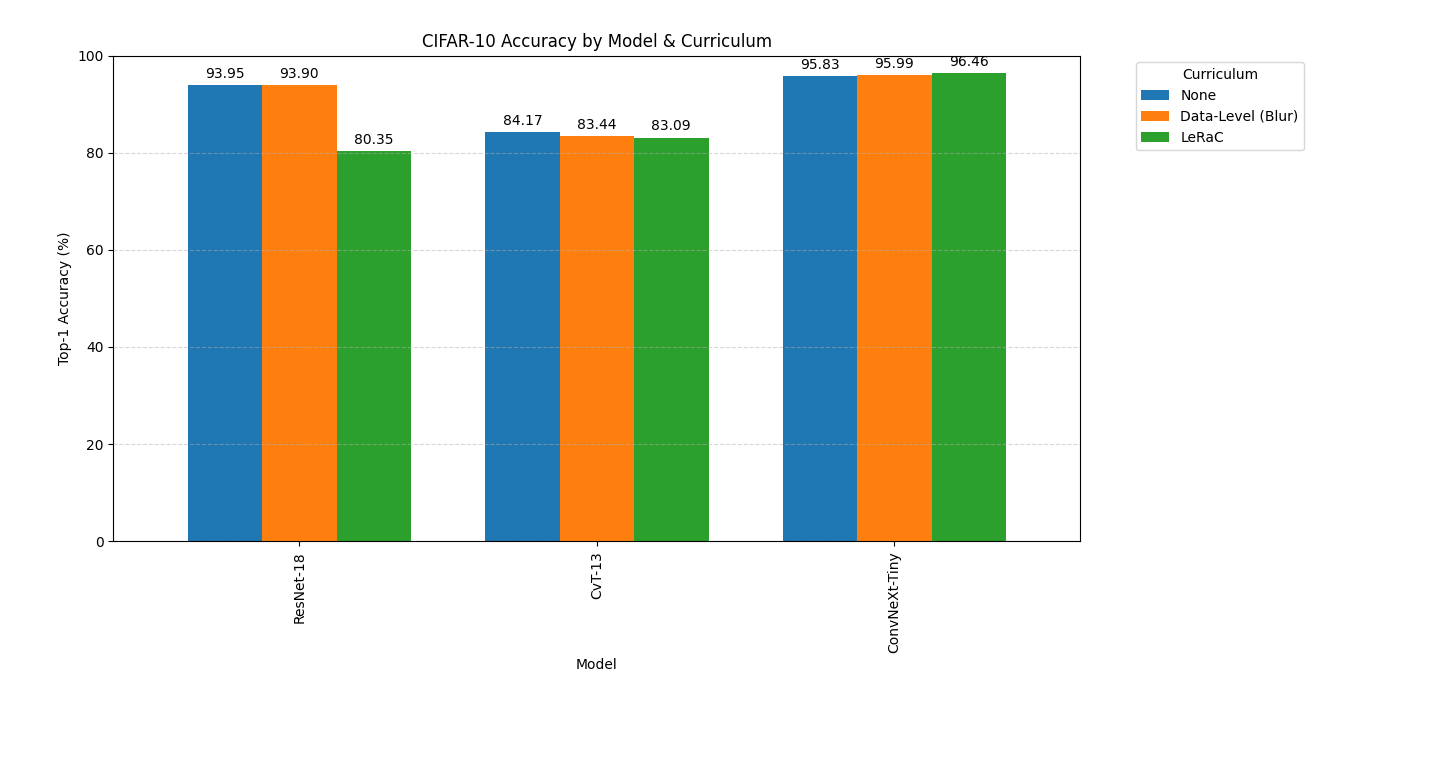
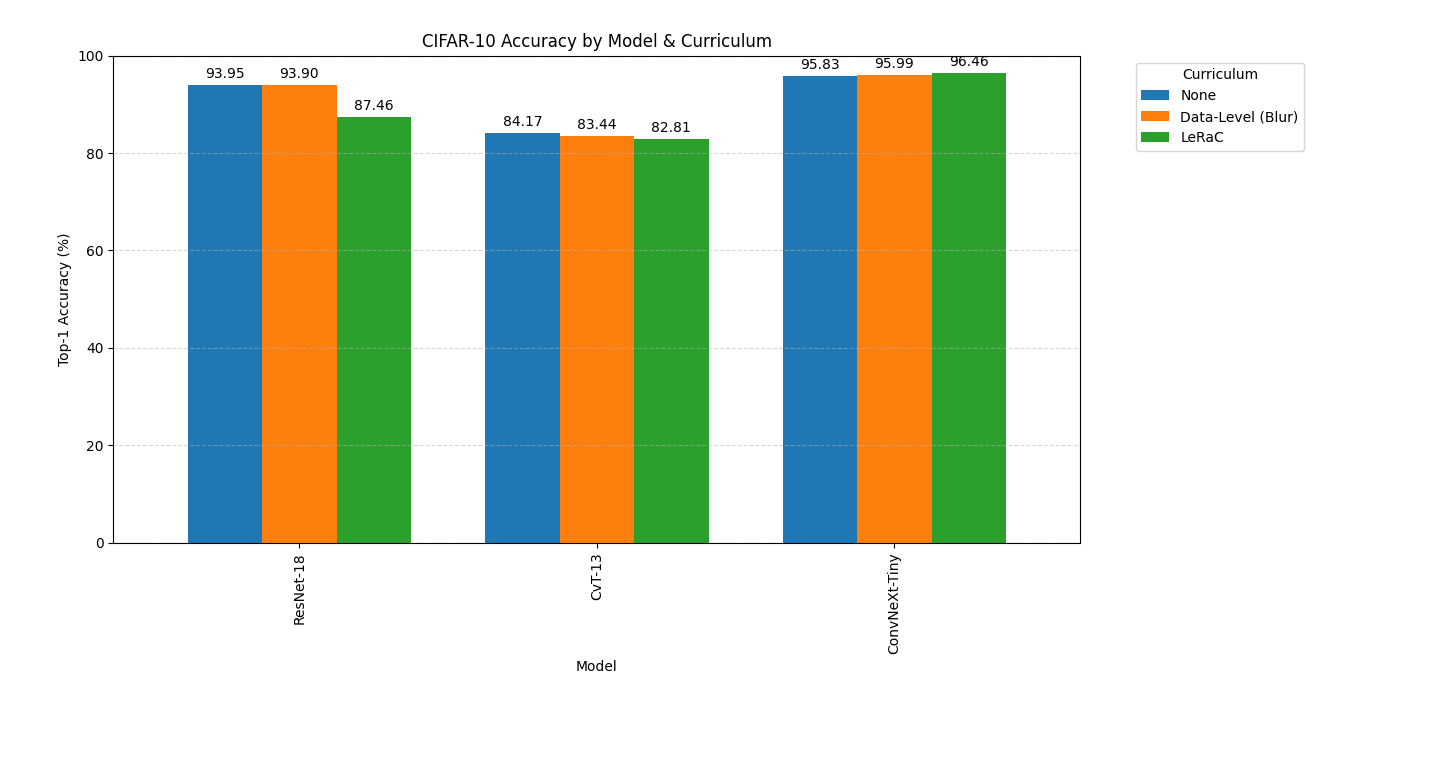
add plots + code

diff --git a/utils/accuracy_plots.py b/utils/accuracy_plots.py
@@ -3,23 +3,29 @@ import matplotlib.pyplot as plt
 
 rows = [
     ("ResNet-18", "None", "CIFAR-10", 93.95),
-    ("ResNet-18", "LeRaC", "CIFAR-10", 80.35),
+    ("ResNet-18", "LeRaC", "CIFAR-10", 87.46),
     ("ResNet-18", "Data-Level (Blur)", "CIFAR-10", 93.90),
+    ("ResNet-18", "Hybrid", "CIFAR-10", 93.43),    
     ("ResNet-18", "None", "ImageNet-100", 79.80),
-    ("ResNet-18", "LeRaC", "ImageNet-100", 74.10),
+    ("ResNet-18", "LeRaC", "ImageNet-100", 80.64),
     ("ResNet-18", "Data-Level (Blur)", "ImageNet-100", 79.30),
+    ("ResNet-18", "Hybrid", "ImageNet-100", 81.08),
     ("CvT-13", "None", "CIFAR-10", 84.17),
-    ("CvT-13", "LeRaC", "CIFAR-10", 83.09),
+    ("CvT-13", "LeRaC", "CIFAR-10", 82.81),
     ("CvT-13", "Data-Level (Blur)", "CIFAR-10", 83.44),
+    ("CvT-13", "Hybrid", "CIFAR-10", 83.07),
     ("CvT-13", "None", "ImageNet-100", 81.12),
-    ("CvT-13", "LeRaC", "ImageNet-100", 77.04),
+    ("CvT-13", "LeRaC", "ImageNet-100", 76.68),
     ("CvT-13", "Data-Level (Blur)", "ImageNet-100", 82.84),
+    ("CvT-13", "Hybrid", "ImageNet-100", 80.56),
     ("ConvNeXt-Tiny", "None", "CIFAR-10", 95.83),
     ("ConvNeXt-Tiny", "LeRaC", "CIFAR-10", 96.46),
     ("ConvNeXt-Tiny", "Data-Level (Blur)", "CIFAR-10", 95.99),
+    ("ConvNeXt-Tiny", "Hybrid", "CIFAR-10", 94.44),    
     ("ConvNeXt-Tiny", "None", "ImageNet-100", 84.53),
     ("ConvNeXt-Tiny", "LeRaC", "ImageNet-100", 83.65),
     ("ConvNeXt-Tiny", "Data-Level (Blur)", "ImageNet-100", 84.18),
+    ("ConvNeXt-Tiny", "Hybrid", "ImageNet-100", 82.73)    
 ]
 
 df = pd.DataFrame(rows, columns=["Model", "Curriculum", "Dataset", "Accuracy"])
@@ -28,7 +34,7 @@ def plot_grouped_bar_unified(df_subset, title, ylim=(0, 100)):
     plt.clf()
     pivot = df_subset.pivot(index="Model", columns="Curriculum", values="Accuracy")
     pivot = pivot.reindex(["ResNet-18", "CvT-13", "ConvNeXt-Tiny"])
-    pivot = pivot[["None", "Data-Level (Blur)", "LeRaC"]]
+    pivot = pivot[["None", "Data-Level (Blur)", "LeRaC", "Hybrid"]].dropna(axis=1, how='all')
     
     ax = pivot.plot(kind="bar", figsize=(9, 5), width=0.75)
     ax.set_title(title)

diff --git a/utils/accuracy_plots_extension.py b/utils/accuracy_plots_extension.py
@@ -1,0 +1,40 @@
+import pandas as pd
+import matplotlib.pyplot as plt
+
+rows = [
+
+    ("CvT-13", "Hybrid", "CIFAR-10", 83.07),
+    ("CvT-13", "Hybrid w/Extension", "CIFAR-10", 82.03),
+    ("CvT-13", "Hybrid", "ImageNet-100", 80.56),
+    ("CvT-13", "Hybrid w/Extension", "ImageNet-100", 79.94),
+]
+
+df = pd.DataFrame(rows, columns=["Model", "Curriculum", "Dataset", "Accuracy"])
+
+def plot_grouped_bar_unified(df_subset, title, ylim=(0, 100)):
+    plt.clf()
+    df_subset = df_subset[df_subset["Model"] == "CvT-13"]
+
+    pivot = df_subset.pivot(index="Dataset", columns="Curriculum", values="Accuracy")
+    pivot = pivot.reindex(["CIFAR-10", "ImageNet-100"])
+
+    cols = ["Hybrid", "Hybrid w/Extension"]
+    cols = [c for c in cols if c in pivot.columns]
+    pivot = pivot[cols].dropna(axis=1, how='all')
+
+    ax = pivot.plot(kind="bar", figsize=(9, 5), width=0.6)
+    ax.set_title(title)
+    ax.set_ylabel("Top-1 Accuracy (%)")
+    ax.set_xlabel("Dataset")
+    ax.set_ylim(ylim)
+    ax.grid(axis="y", linestyle="--", alpha=0.5)
+    ax.legend(title="Curriculum", bbox_to_anchor=(1.05, 1), loc="upper left")
+    ax.set_xticklabels(pivot.index, rotation=0)
+
+    for container in ax.containers:
+        ax.bar_label(container, fmt="%.2f", padding=3)
+
+    plt.tight_layout()
+    plt.show()
+
+plot_grouped_bar_unified(df, "Hybrid vs Hybrid w/Extension Accuracy for CvT-13")
